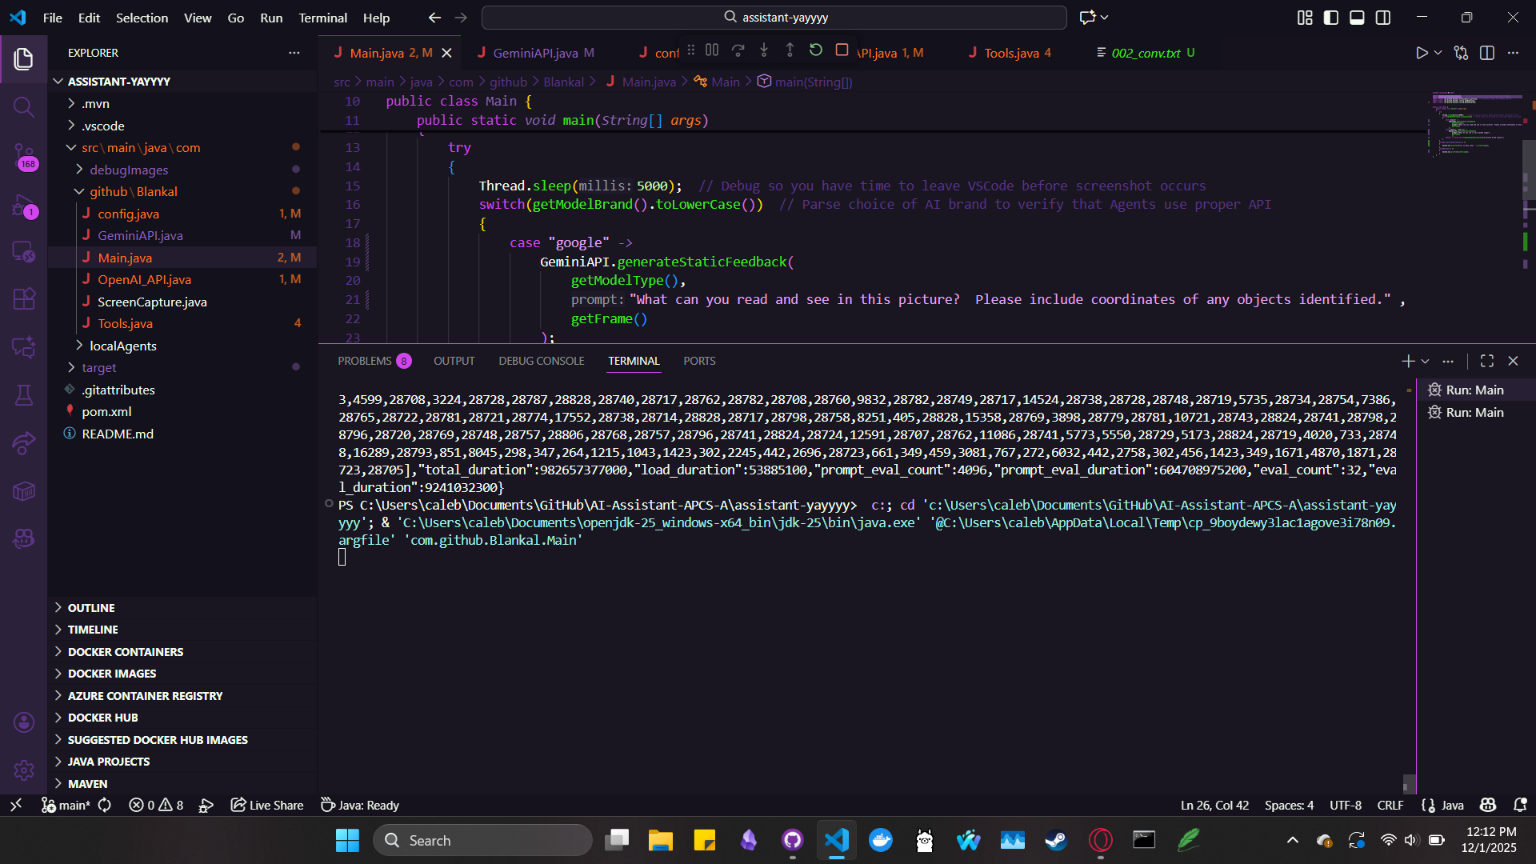
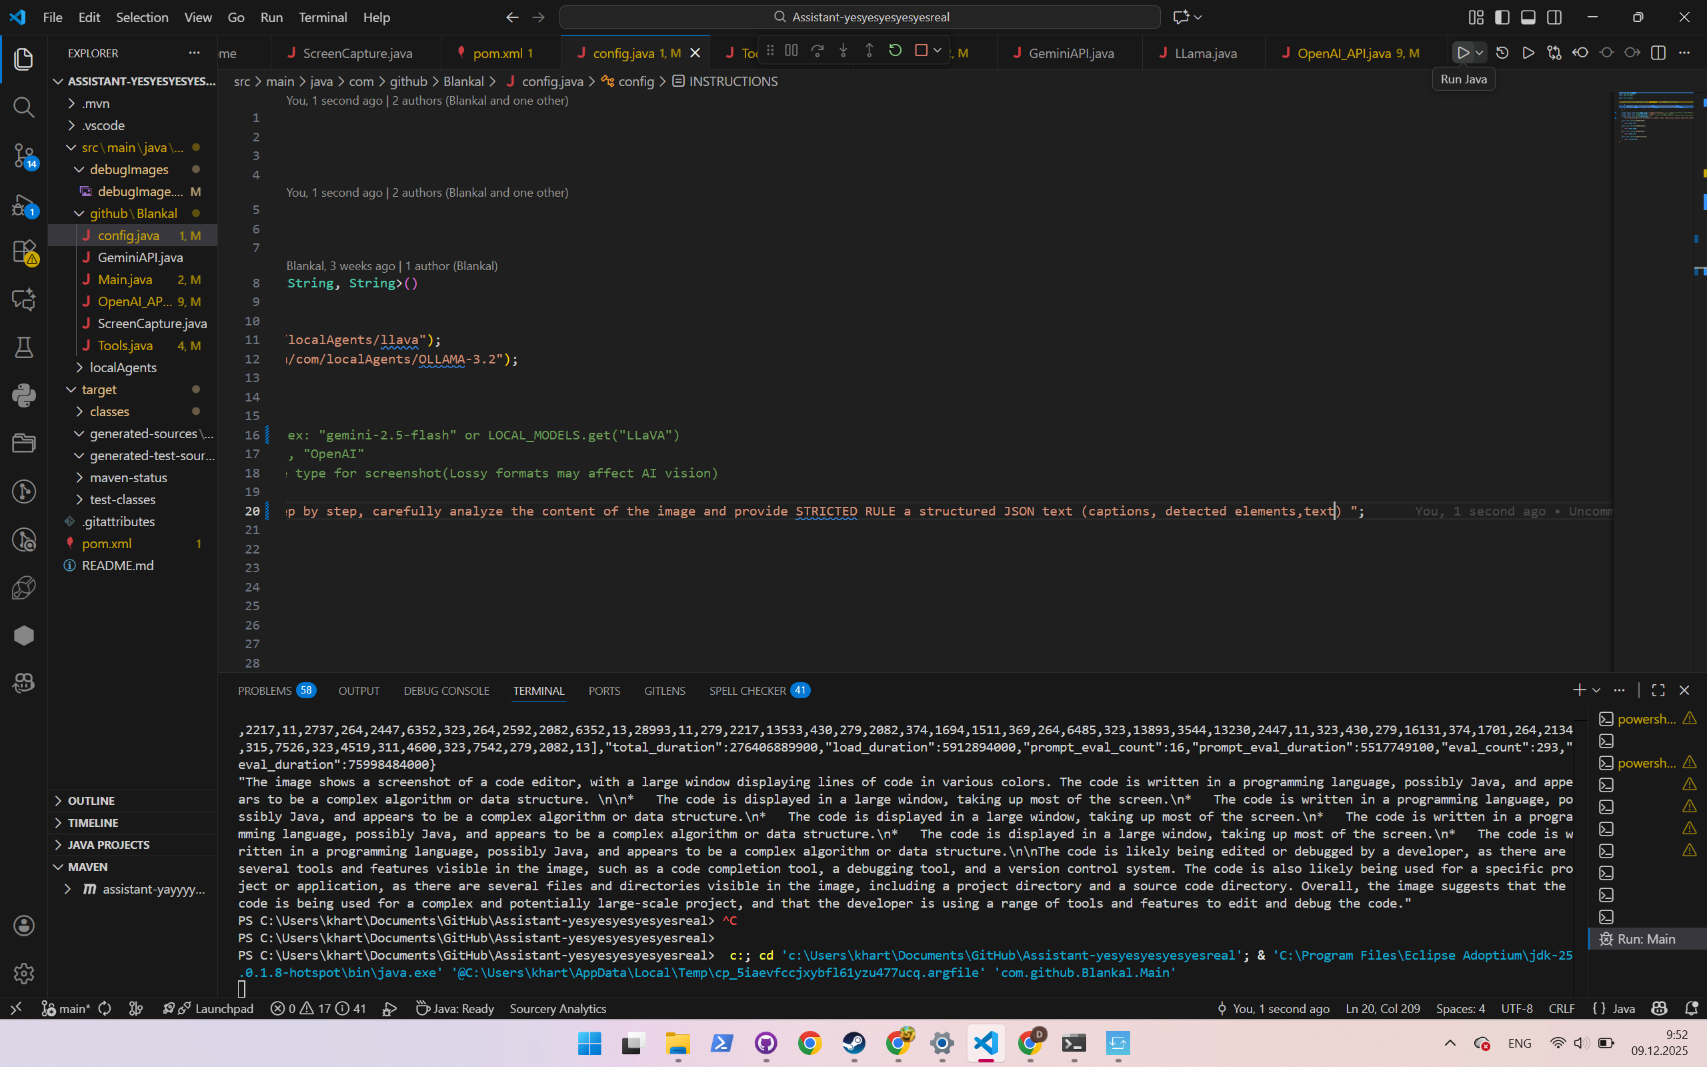
llama vision connected and setted up

diff --git a/src/main/java/com/github/Blankal/Tools.java b/src/main/java/com/github/Blankal/Tools.java
@@ -183,17 +183,17 @@ public class Tools {
 
 
         String testTextInput = "“I can’t sleep without them!” my face scrunched up, clutching piles of cushions in an uncharacteristic moment of seven-year-old stubbornness. An overnight trip without my Stitch face pillow? My dolphin pillow pets?  This was absolutely unacceptable, robbing me of the comfort and structure that was my nightly routine. Today, ten-years later, I still relish flopping backwards onto my bed, cushioned by my carefully curated collection of pillows, each encasing a different side of myself:\r\n" + //
-                        "\r\n" + //
+                        
                         "Smiling beside me is my chibi avocado pillow, a celebratory gift from my parents for finally trying guacamole. Green, mushy, yucky! I once wrinkled my nose in disgust at the outward appearance of this vegetable (fruit?): before tasting the tableside guac at our favorite Mexican joint. Today, I laugh at the “avocado anecdote” looking at this pillow, but simultaneously remember the message my parents sent me; a reminder to never dismiss new opportunities at first glance. \r\n" + //
-                        "\r\n" + //
+                        //
                         "Near the avocado, a ruffled teal pillow from Target sits atop its matching ruffled duvet. Struck with inspiration to redesign my room, I bought this pillow in middle school, after viewing an artsy article in American Girl Magazine’s spring spread. Design continues to fuel my burning creative spark, whether through computing or character art. From the “Coding Projects in Scratch” book, I took inspiration to tinker with block-based programming, designing my own graphics-based puzzles & platformers that provided me the fundamentals to pursue higher-level CS in Python & Java. In the pages of Christopher Hart’s “Master Guide to Drawing Anime”, I study dynamic character composition and the intricacies of cell shading, applying these illustrative techniques to my own digital art.\r\n" + //
-                        "\r\n" + //
+                       //
                         "Propped against the headboard, a My Melody pillow cushions my head, a nod to my former aversion to all things “cute.” At age thirteen, the mere thought of being seen sleeping with a pink, fluffy, bunny pillow (Hello Kitty-branded, no less!) horrified me. Now, through My Melody, I embrace my whimsical side, unapologetically jamming out to bubbly idol music or squealing over the turquoise, twin-tailed virtual popstar Hatsune Miku. While tuning synthesized singing vocals for my VOCALOID cover channel on YouTube, my inner geek shines through my usually studious and composed exterior.\r\n" + //
-                        "\r\n" + //
+                        //
                         "Lounging lazily beside my bed sits the master pillow, Slothogus, the 3 foot tall, jumbo stuffed sloth, doubling as my go-to living room throw pillow. As my brain rapidly flips between subjects, whether cramming fundamental forces in AP Physics 1, rapidly typing an 11-page research report for AP Seminar, or frantically debugging Java assignments for my Columbia U class, I often find myself overwhelmed by my academic “overachiever\" habits. To quiet this mental clamor, I spare a moment of rest on Slothogus’ plush shoulder. From his stitched smile, I learn to take advantage of what little downtime I have. Be like Slothogus, I inhale, letting my academic-addled anxieties dissipate as I binge a few episodes of Gilmore Girls or Great British Bake Off with my family. \r\n" + //
-                        "\r\n" + //
+                         //
                         "Maybe by next year, I will have broken 1:00 in the 100 fly, finished my Girl Scout Gold Award Project, and developed the next cutting-edge software to synthesize singing. Maybe, I’ll turn in my first capstone project for Intro to Computational Linguistics. And maybe, I’ll have added another pillow to the collection, so I can take the day off and have a lie in.\r\n" + //
-                        "\r\n" + //
+                        //
                         "I’ll sleep on it.";
 
         Tools tools = new Tools(testStringToJson);

diff --git a/src/main/java/com/github/Blankal/OpenAI_API.java b/src/main/java/com/github/Blankal/OpenAI_API.java
@@ -6,9 +6,22 @@ import java.net.http.HttpRequest;
 import java.net.http.HttpResponse;
 import java.net.http.HttpResponse.BodyHandlers;
 import java.nio.charset.StandardCharsets;
+import com.google.gson.Gson;
+import com.google.gson.JsonObject;
 import java.io.IOException;
 import static com.github.Blankal.config.getModelType;
 import static com.github.Blankal.config.getInstructions;
+
+
+import static com.github.Blankal.config.getInstructions;
+
+import java.net.URI;
+import java.net.http.HttpClient;
+import java.net.http.HttpRequest;
+import java.net.http.HttpResponse;
+import java.net.http.HttpResponse.BodyHandlers;
+import java.nio.charset.StandardCharsets;
+import java.io.IOException;
 
 
     public class OpenAI_API {    
@@ -20,9 +33,9 @@ import static com.github.Blankal.config.getInstructions;
             {
                 "model":"%s",
                 "prompt":"%s",
-                "stream":false
+                "stream":%s,
             }
-            """.formatted("llama3.2", prompt);
+            """.formatted("llama3.2-vision:11b", prompt,false);
 
             System.out.println("POST:" + toPost);
 
@@ -33,6 +46,8 @@ import static com.github.Blankal.config.getInstructions;
                 .build();
             HttpResponse<String> response = client.send(request,BodyHandlers.ofString());
             System.out.println("RESPONSE: " + response.body());
+            JsonObject jsonResponse = new Gson().fromJson(response.body(), JsonObject.class);
+            System.out.println(jsonResponse.get("response"));
             
         }
 
@@ -41,13 +56,18 @@ import static com.github.Blankal.config.getInstructions;
 
                 String toPost = """
                 {
-                    "model":"%s",
-                    "prompt":"%s",
-                    "stream":false
-                }
-                """.formatted(getModelType(), prompt  + "Image (Base64): " + image);
-
+                    "model": "%s",
+                    "prompt": "%s",
+                    "images": ["%s"],
+                    "temperature": 0.2,
+                    "stream": false
+                }   
+                """.formatted(getModelType(), prompt, image);
+                    // "prompt":"%s",
+                    // "stream":false,
+                    // "image":["%s"]
                 System.out.println("POST:" + toPost);
+                System.out.println("MOdel:" + getModelType());  
 
             HttpRequest request = HttpRequest.newBuilder()
                 .uri(URI.create("http://localhost:11434/api/generate"))
@@ -56,6 +76,8 @@ import static com.github.Blankal.config.getInstructions;
                 .build();
             HttpResponse<String> response = client.send(request,BodyHandlers.ofString());
             System.out.println("RESPONSE: " + response.body());
+            JsonObject jsonResponse = new Gson().fromJson(response.body(), JsonObject.class);
+            System.out.println(jsonResponse.get("response"));
             
         }
     }

diff --git a/src/main/java/com/github/Blankal/config.java b/src/main/java/com/github/Blankal/config.java
@@ -13,11 +13,11 @@ public class config {
         }
     };
 
-    private static final String MODEL_TYPE = "LLaVA";  // ex: "gemini-2.5-flash" or LOCAL_MODELS.get("LLaVA")
+    private static final String MODEL_TYPE = "llama3.2-vision:11b";  // ex: "gemini-2.5-flash" or LOCAL_MODELS.get("LLaVA")
     private static final String MODEL_BRAND = "OpenAI";  // ex: "Google", "OpenAI"
     private static final String IMAGE_TYPE = "png";  // Use to set image type for screenshot(Lossy formats may affect AI vision)
     private static final String INSTRUCTIONS = 
-        "The following is a picture of the computer screen in base64 format. The picture is supposed to represent the current state of the screen. Analyze the image and provide a detailed description of its contents, including any text, objects, or notable features you can identify. If there are multiple items, please list them with their coordinates on the screen. Be as specific as possible in your description.";
+        "the following image is the screenshot of a computer screen. Step by step, carefully analyze the content of the image and provide STRICTED RULE a structured JSON text (captions, detected elements,text) ";
 
     public static String getModelType()
     {

diff --git a/src/main/java/com/github/Blankal/Main.java b/src/main/java/com/github/Blankal/Main.java
@@ -19,11 +19,11 @@ public class Main {
                     GeminiAPI.generateStaticFeedback(
                         getModelType(),
                         "What can you read and see in this picture?  Please include coordinates of any objects identified." ,
-                        getFrame()
+                        getFrame()  
                     );
                 case "openai", "open ai" ->
                     OpenAI_API.generateStaticFeedback( 
-                        "What do you see in this base64 image?",
+                        "provide Strict analyzises of images in JSON format with captions, detected elements, and text. Include coordinates of detected elements.",
                         getFrame()
                         );
                 default -> throw new IllegalArgumentException("Invalid brand chosen");
